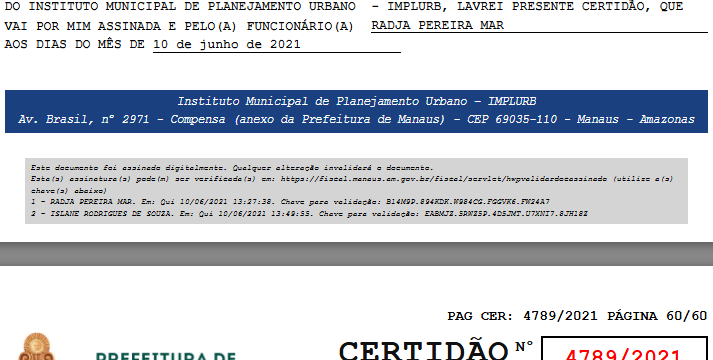
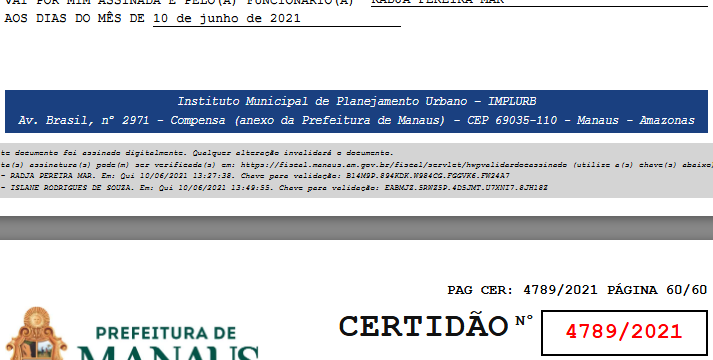
auto-sync: 2026-04-27 11:21

diff --git a/dados/certidao-template.html b/dados/certidao-template.html
@@ -157,7 +157,7 @@
 
   .footer-bar {
     position: absolute;
-    bottom: 29mm;
+    bottom: 22mm;
     left: 12mm;
     right: 12mm;
     background: #1a4080;
@@ -173,8 +173,8 @@
   .footer-notes {
     position: absolute;
     bottom: 5mm;
-    left: calc(12mm + 20px);
-    right: calc(12mm + 20px);
+    left: calc(12mm - 20px);
+    right: calc(12mm - 20px);
     background: #d4d4d4;
     font-family: "Courier New", Courier, monospace;
     font-size: 8px;

diff --git a/dados/build-html.py b/dados/build-html.py
@@ -162,7 +162,7 @@ html = """<!DOCTYPE html>
 
   .footer-bar {
     position: absolute;
-    bottom: 29mm;
+    bottom: 22mm;
     left: 12mm;
     right: 12mm;
     background: #1a4080;
@@ -178,8 +178,8 @@ html = """<!DOCTYPE html>
   .footer-notes {
     position: absolute;
     bottom: 5mm;
-    left: calc(12mm + 20px);
-    right: calc(12mm + 20px);
+    left: calc(12mm - 20px);
+    right: calc(12mm - 20px);
     background: #d4d4d4;
     font-family: "Courier New", Courier, monospace;
     font-size: 8px;
